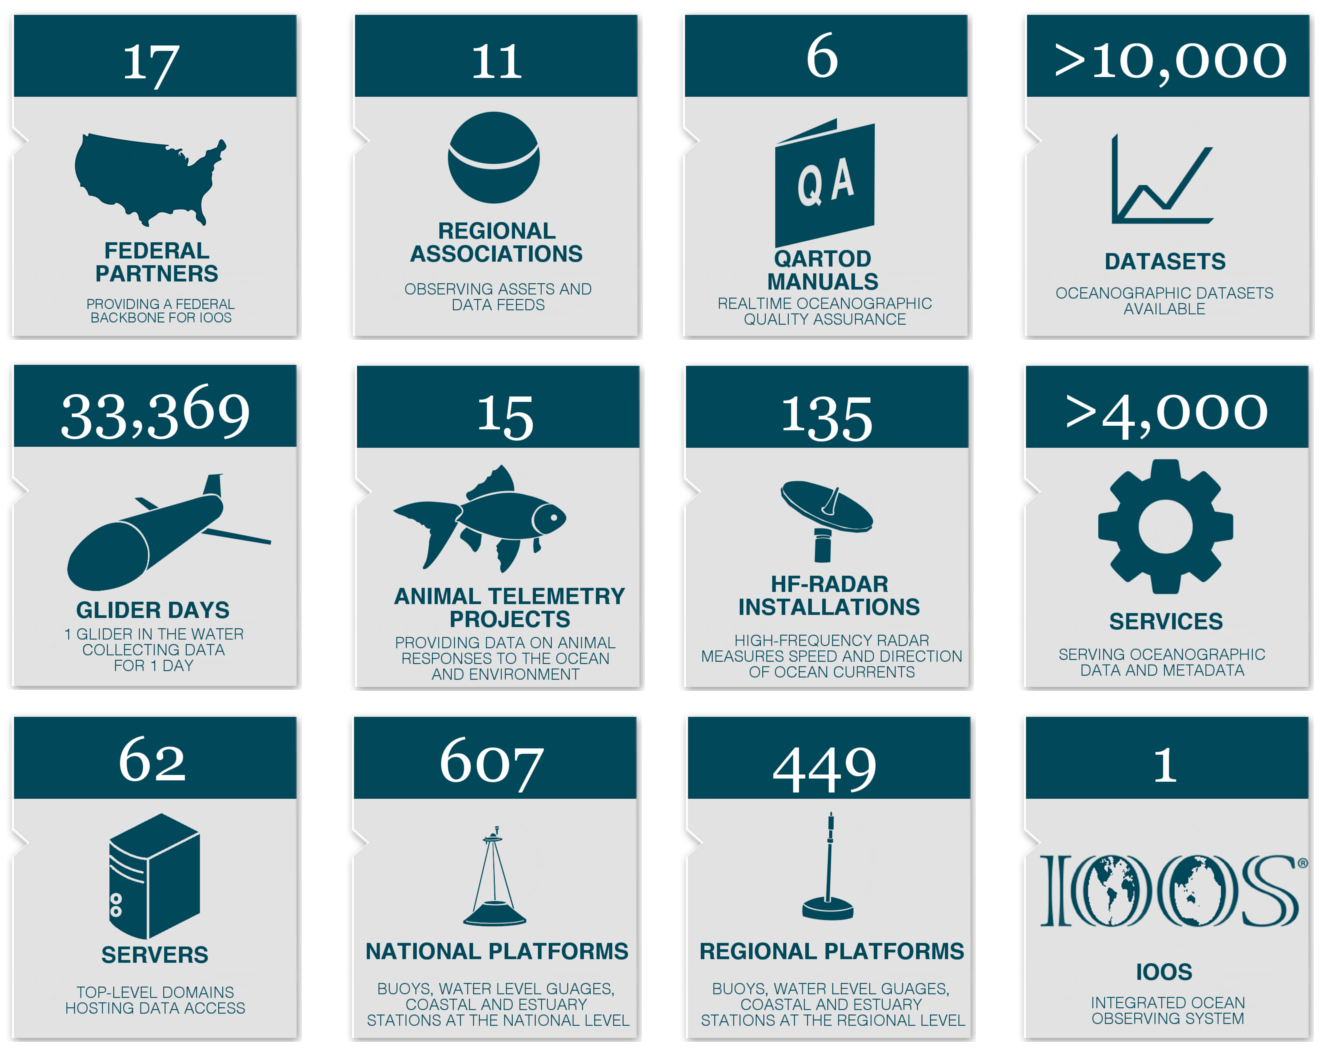
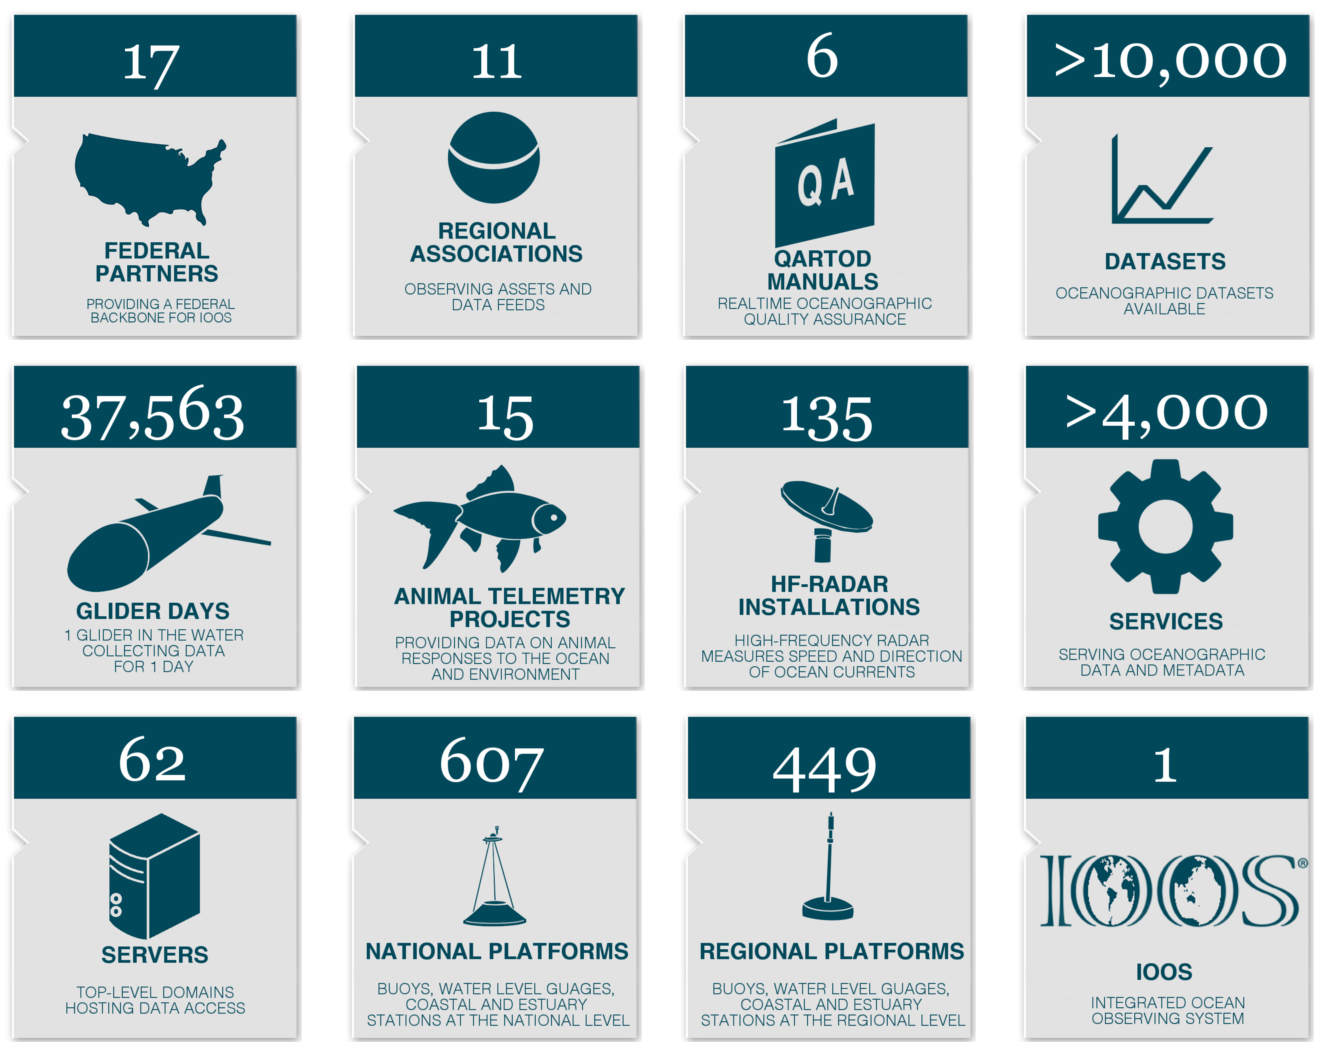
Updates BTN for the glider days metrics

diff --git a/ioos_catalog/templates/by_the_numbers.html b/ioos_catalog/templates/by_the_numbers.html
@@ -391,7 +391,7 @@
        The number of servers was calculated by totaling the number of
        top-level-domains available for each partner and association for IOOS. The
        number of glider days was obtained from the regional glider operations
-       summary for 2008 to 2012. More information about gliders may be found on
+       summary for 2008 to 2014. More information about gliders may be found on
        <a href="{{url_for('gliders')}}">our gliders page</a>. The numbers of
        national and regional platforms were obtained from public information
        available on the IOOS homepage.
